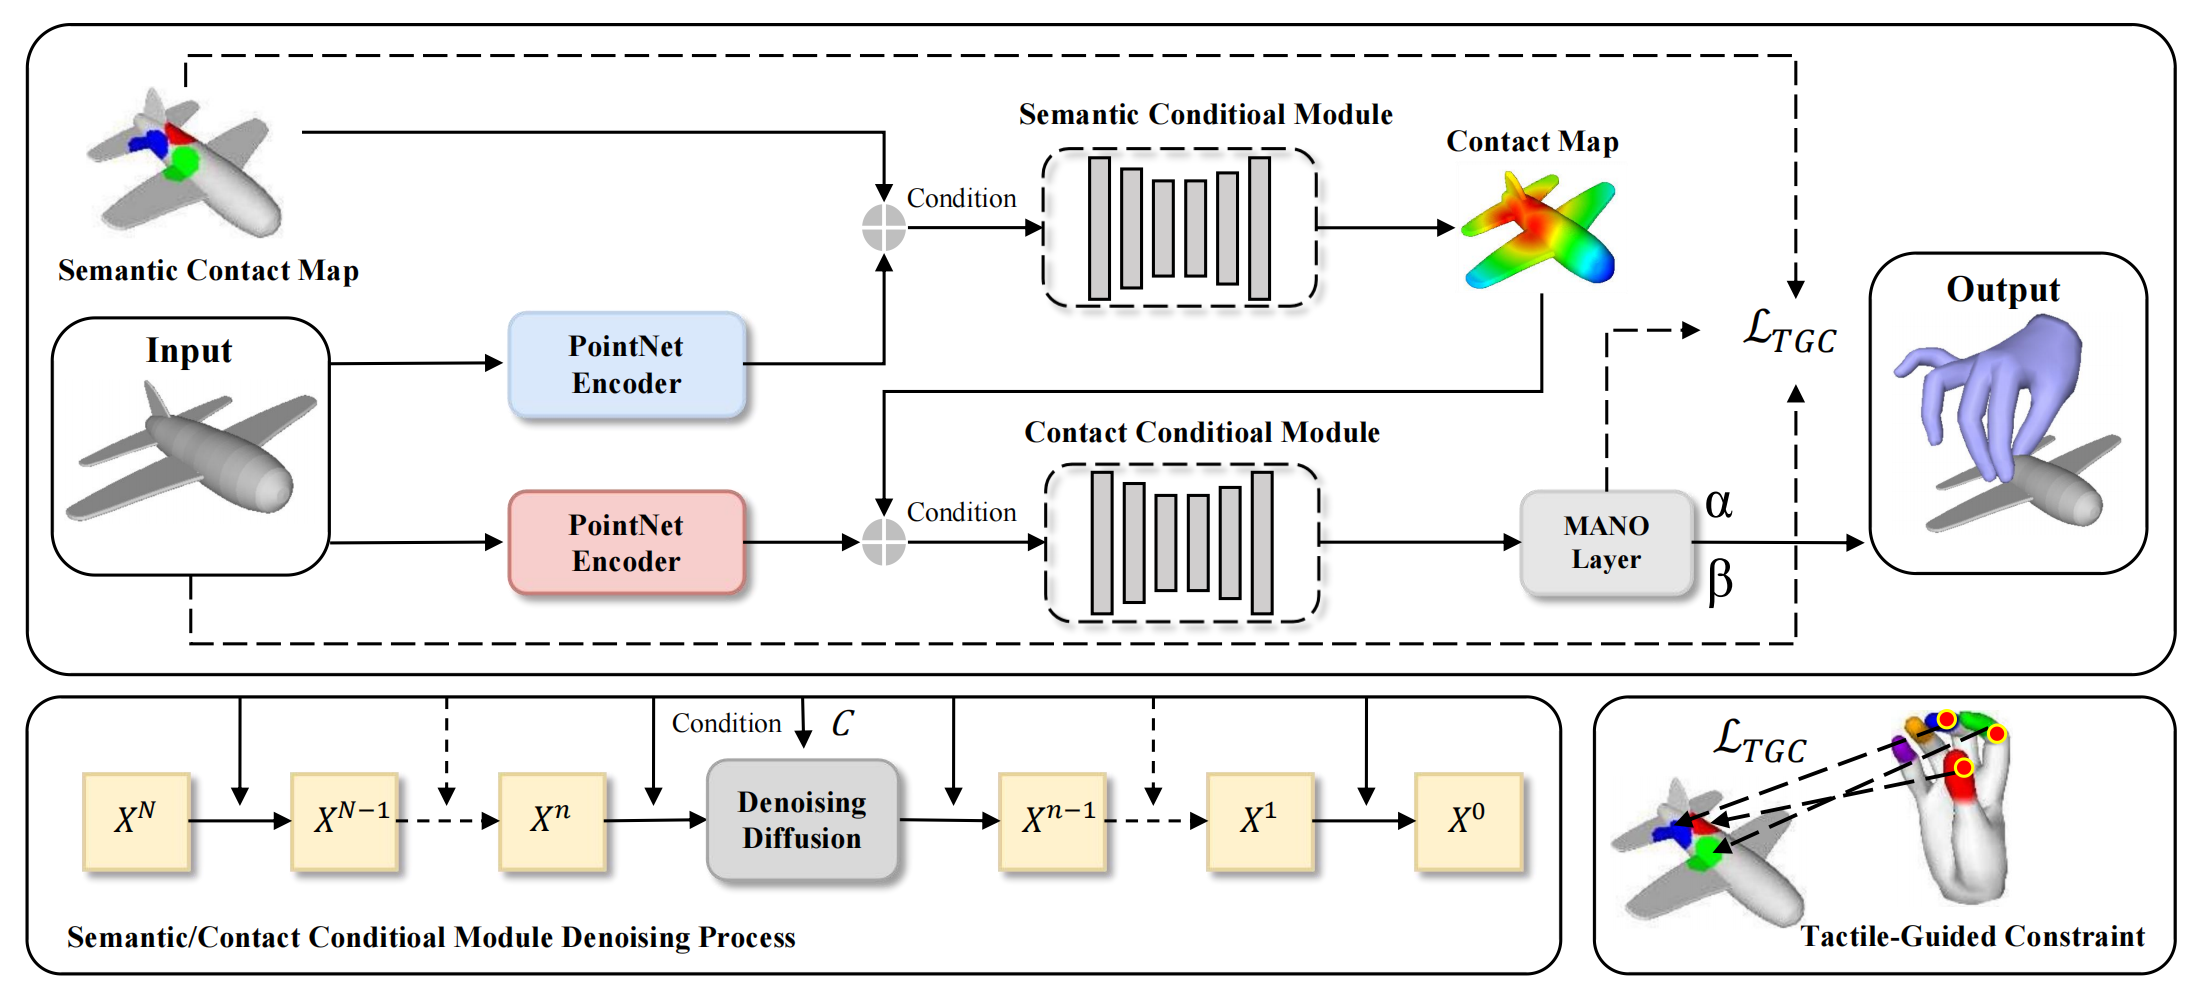
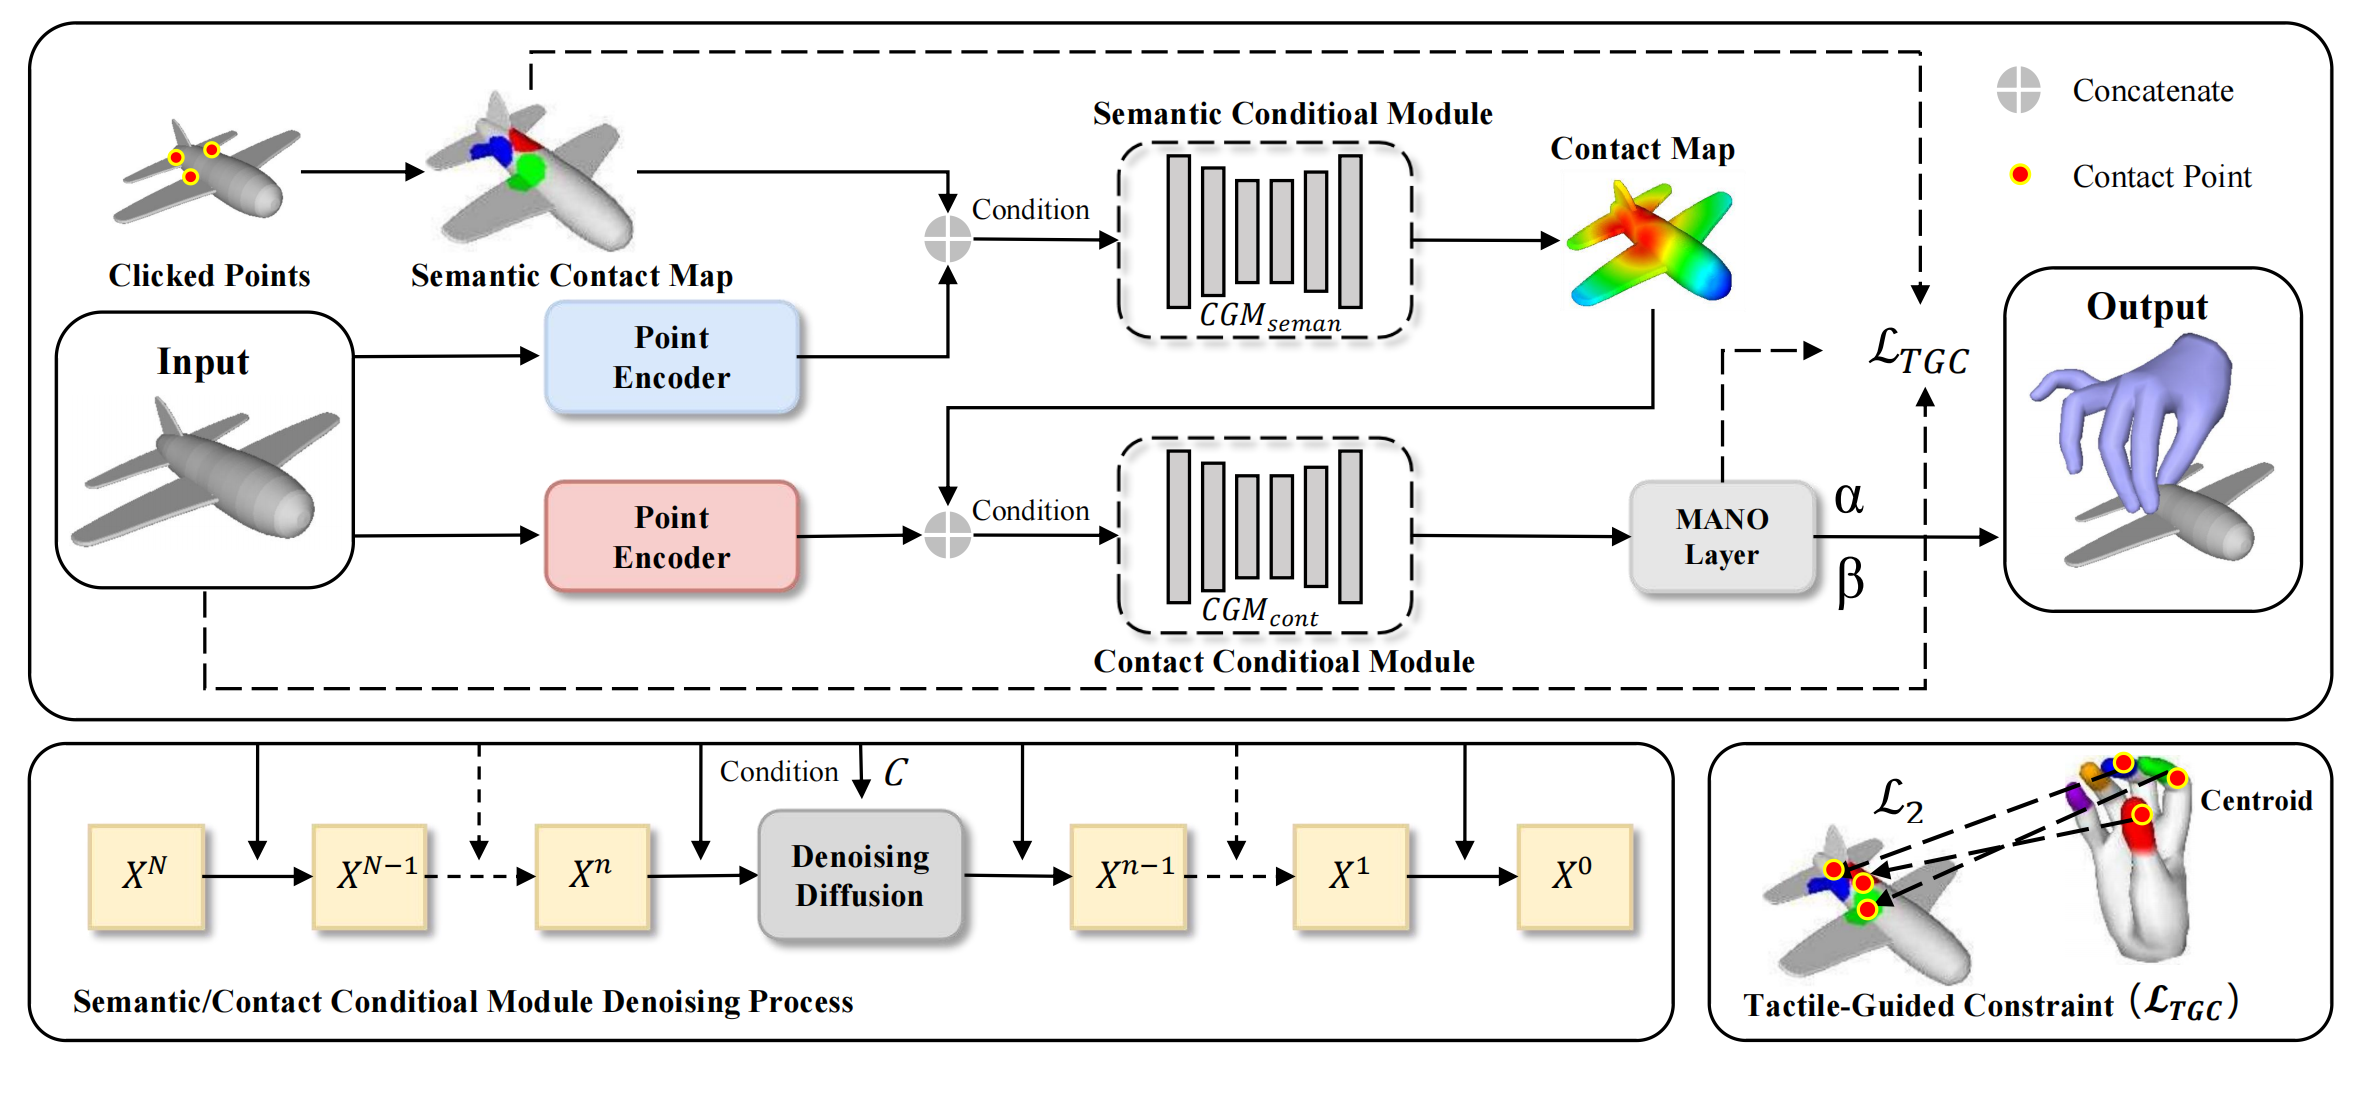
4.12

Changed region(s): [[0.0, 0.0, 0.9882, 0.988]]

diff --git a/eval.py b/eval.py
@@ -25,8 +25,8 @@ def test(opt, device):
     diffusion_moudle_2 = moudle_2(opt)
     idxs = 0
 
-    diffusion_weight_path_1 = "checkpoint/semantic_conditional_moudle.pt"
-    diffusion_weight_path_2 = "checkpoint/contact_conditional_moudle.pt"
+    diffusion_weight_path_1 = "checkpoint/semantic_conditional_module.pt"
+    diffusion_weight_path_2 = "checkpoint/contact_conditional_module.pt"
 
     diffusion_moudle_1.load_weight_path(diffusion_weight_path_1)
     diffusion_moudle_2.load_weight_path(diffusion_weight_path_2)

diff --git a/README.md b/README.md
@@ -1,6 +1,6 @@
-# FingerDiff
+# ClickDiff
 
-Official code for "FingerDiff : Controllable Semantic Contact Map for Grasps Generation"
+Official code for "ClickDiff: Click to define Semantic Contact Map for Interactive Grasp Generation with Diffusion Models"
 
 ![pipeline_00](assets/pipeline_00.png)
 
